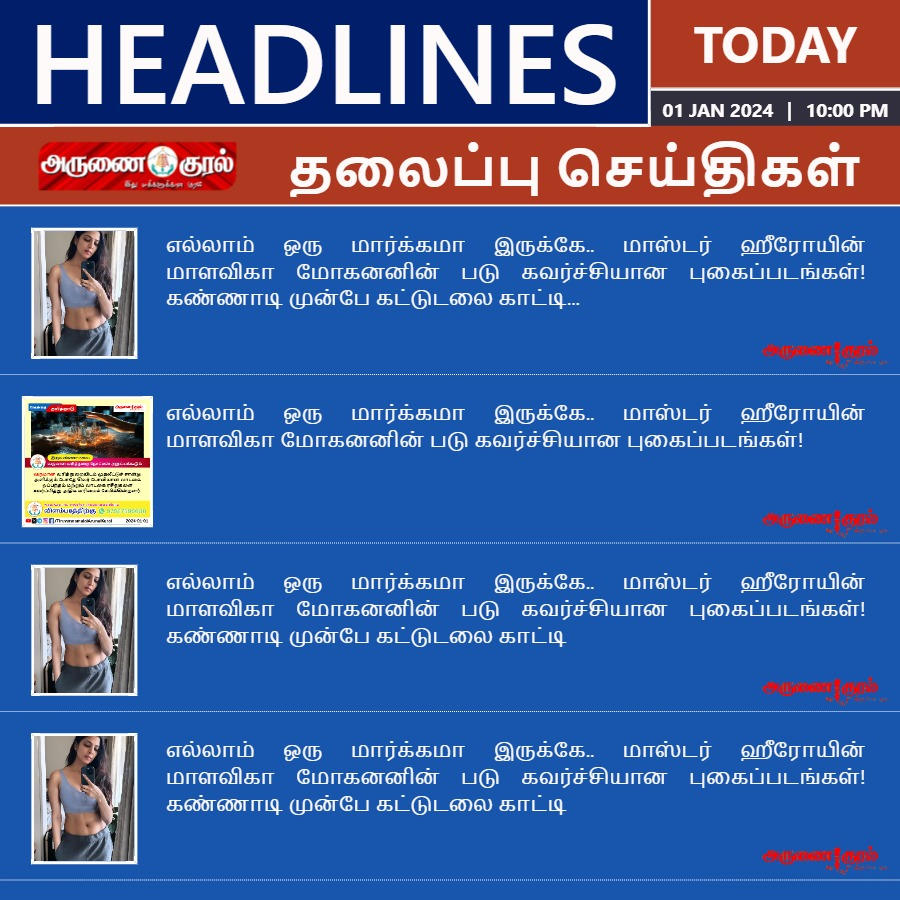
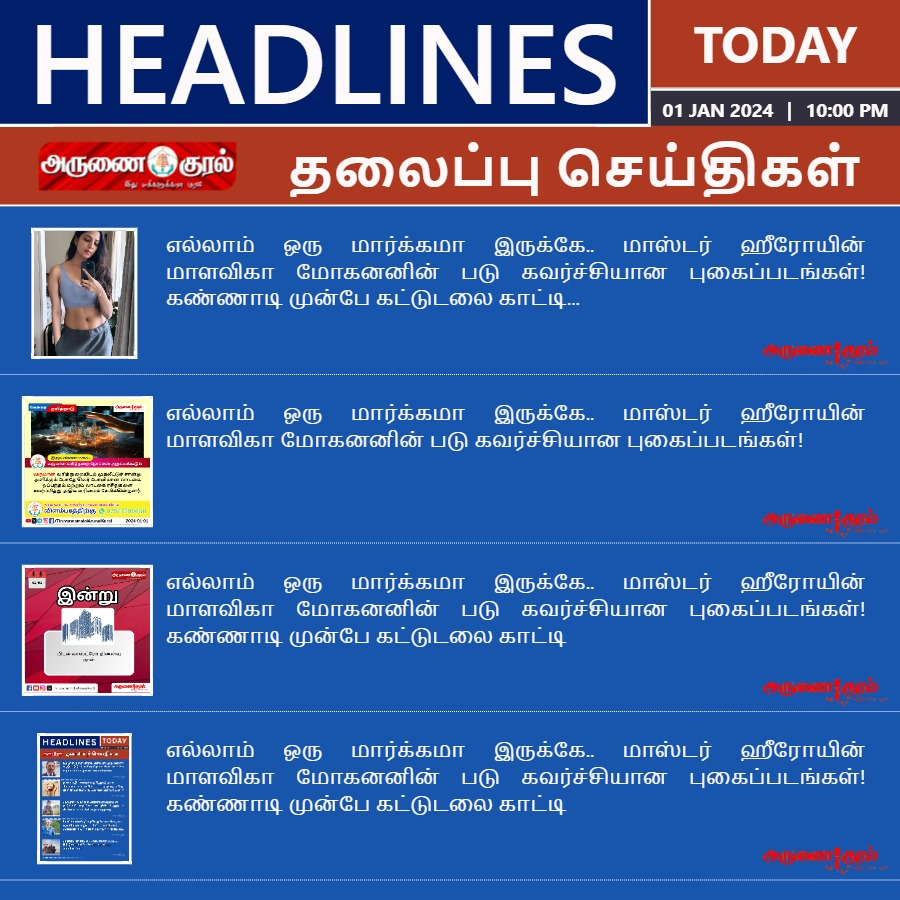
just update

Changed region(s): [[0.0, 0.6222, 0.1867, 0.7778], [0.0311, 0.8089, 0.1556, 0.9644]]

diff --git a/index.html b/index.html
@@ -178,14 +178,14 @@
         </div>
         <div id="content">
           <div id="content-image">
-            <img id="news_image3" src="./img/malavika-mohanan.webp" alt="">
+            <img id="news_image3" src="./img/template2.jpeg" alt="">
           </div>
           <p id="cont3">எல்லாம் ஒரு மார்க்கமா இருக்கே.. மாஸ்டர் ஹீரோயின் மாளவிகா மோகனனின் படு கவர்ச்சியான புகைப்படங்கள்! கண்ணாடி முன்பே கட்டுடலை காட்டி</p>
           <img id="content-logo" src="./img/logo1.png" alt="">
         </div>
         <div id="content">
           <div id="content-image">
-            <img id="news_image4" src="./img/malavika-mohanan.webp" alt="">
+            <img id="news_image4" src="./img/template3.png" alt="">
           </div>
           <p id="cont4">எல்லாம் ஒரு மார்க்கமா இருக்கே.. மாஸ்டர் ஹீரோயின் மாளவிகா மோகனனின் படு கவர்ச்சியான புகைப்படங்கள்! கண்ணாடி முன்பே கட்டுடலை காட்டி</p>
           <img id="content-logo" src="./img/logo1.png" alt="">

diff --git a/js/index.js b/js/index.js
@@ -229,3 +229,7 @@ function time_conv() {
   frmid('datetime-date').innerHTML=date;
   frmid('datetime-time').innerHTML=timeString;
 }
+
+window.onresize = function(event) {
+  location.reload();
+};
